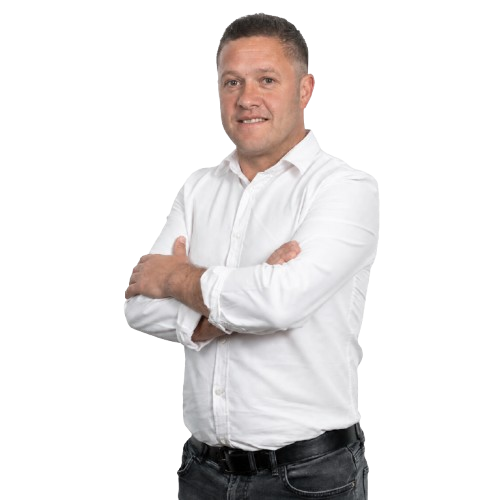
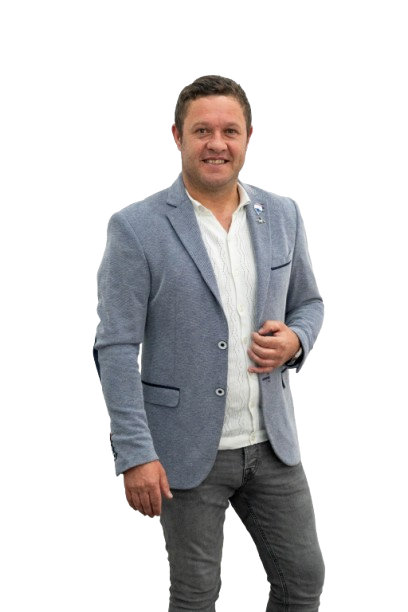
Add files via upload

diff --git a/src/components/Footer.tsx b/src/components/Footer.tsx
@@ -55,6 +55,12 @@ export default function Footer() {
                   bg: 'rgba(0,51,160,0.1)', color: '#0033A0'
                 },
                 {
+                  icon: <svg width="13" height="13" viewBox="0 0 24 24" fill="none" stroke="currentColor" strokeWidth="2" strokeLinecap="round" strokeLinejoin="round"><rect x="2" y="2" width="20" height="20" rx="5" /><path d="m16 11.37A4 4 0 1 1 12.63 8 4 4 0 0 1 16 11.37z" /><line x1="17.5" y1="6.5" x2="17.51" y2="6.5" /></svg>,
+                  href: 'https://www.instagram.com/joseamericodamoita/',
+                  text: '@joseamericodamoita',
+                  bg: 'rgba(114,47,55,0.15)', color: '#C9A96E',
+                },
+                {
                   icon: <Globe size={13} />,
                   href: 'https://remax.pt/pt/agente/jose-ferreira/126421023',
                   text: 'Perfil RE/MAX',

diff --git a/src/components/CtaFinal.tsx b/src/components/CtaFinal.tsx
@@ -121,6 +121,7 @@ export default function CtaFinal() {
                 { icon: <Phone size={14} />, label: 'Telefone', value: '+351 966 425 721', href: 'tel:+351966425721', hColor: '#25D366' },
                 { icon: <Mail size={14} />, label: 'Email', value: '[email redacted]', href: 'mailto:[email redacted]', hColor: '#0033A0' },
                 { icon: <svg width="14" height="14" viewBox="0 0 24 24" fill="none" stroke="currentColor" strokeWidth="2" strokeLinecap="round" strokeLinejoin="round"><path d="M18 2h-3a5 5 0 0 0-5 5v3H7v4h3v8h4v-8h3l1-4h-4V7a1 1 0 0 1 1-1h3z" /></svg>, label: 'Facebook', value: 'Equipa Facebook', href: 'https://www.facebook.com/zeca.ferreira.3', hColor: '#1877F2' },
+                { icon: <svg width="14" height="14" viewBox="0 0 24 24" fill="none" stroke="currentColor" strokeWidth="2" strokeLinecap="round" strokeLinejoin="round"><rect x="2" y="2" width="20" height="20" rx="5" /><path d="m16 11.37A4 4 0 1 1 12.63 8 4 4 0 0 1 16 11.37z" /><line x1="17.5" y1="6.5" x2="17.51" y2="6.5" /></svg>, label: 'Instagram', value: '@joseamericodamoita', href: 'https://www.instagram.com/joseamericodamoita/', hColor: '#E1306C' },
                 { icon: <Globe size={14} />, label: 'Website', value: 'Perfil RE/MAX', href: 'https://remax.pt/pt/agente/jose-ferreira/126421023', hColor: '#C9A96E' },
               ].map((c, i) => (
                 <a key={i} href={c.href} target={c.href.startsWith('http') || c.href.startsWith('mailto:') ? '_blank' : undefined} rel="noopener noreferrer" style={{ display: 'flex', alignItems: 'flex-start', gap: 10, textDecoration: 'none' }}>